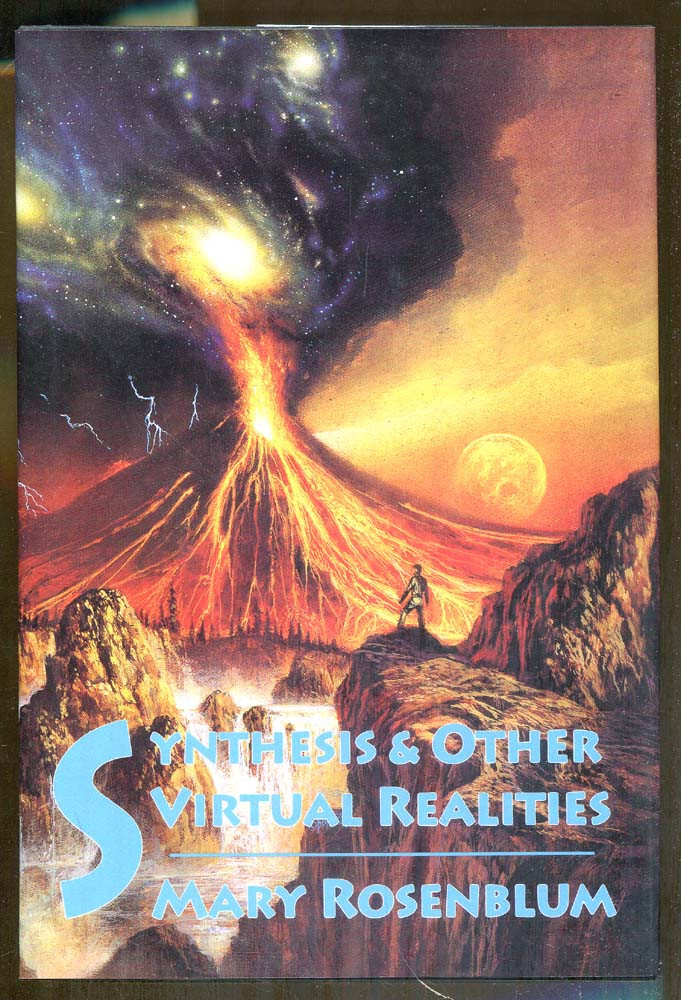
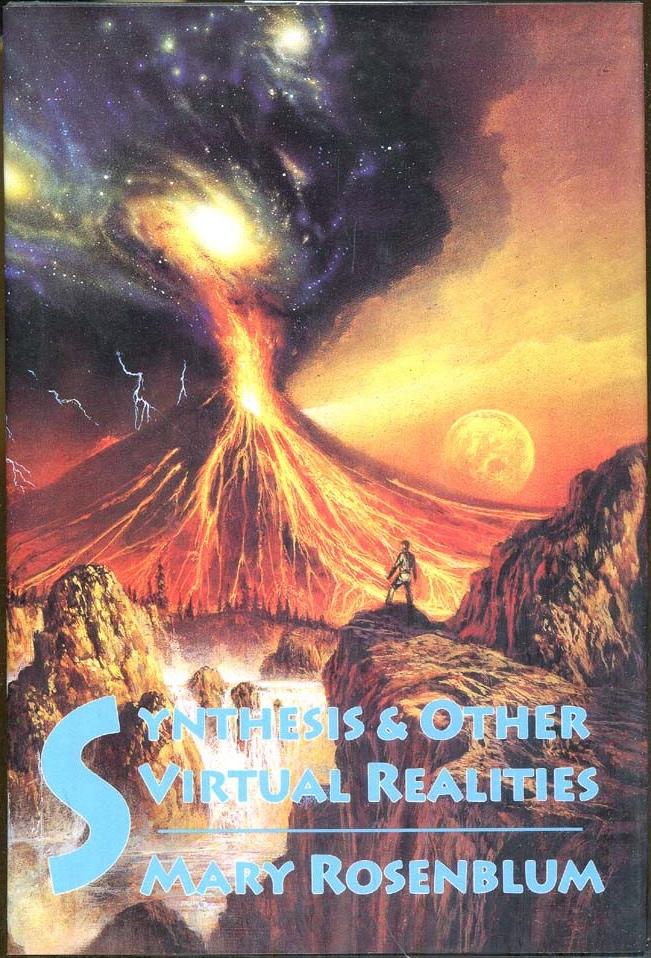
crops

diff --git a/data/edits.js b/data/edits.js
@@ -138,18 +138,23 @@ window.BOOK_EDITS = {
     "coverImageFile": "covers/the-cleansing-novel-243.jpg"
   },
   "245": {
-    "goodreadsUrl": "https://www.goodreads.com/book/show/370614.Book_of_the_Dead",
-    "coverImageFile": "covers/book-of-the-dead-memoir-245.jpg"
+    "coverImageFile": "covers/book-of-the-dead-memoir-245.jpg",
+    "listCoverFocusX": 0.6659663865546218,
+    "listCoverFocusY": 0.4360933324905125,
+    "goodreadsUrl": "https://www.goodreads.com/book/show/370614.Book_of_the_Dead"
   },
   "246": {
     "description": "Arkham's Masters of Horror is an anthology of fantasy and horror stories edited by Peter Ruber. It was released by Arkham House in an edition of approximately 4,000 copies in 2000. The book includes an introductory essay by Ruber before each story and about its author.\n\nRuber drew criticism from the horror/fantasy community for the hostility with which he introduced some authors within the volume - for instance, his accusation that H.P. Lovecraft \"had a schizoid personality\" and could be labelled \"a genuine crackpot.\"",
-    "coverImageFile": "covers/arkhams-masters-of-horror-246.jpg"
+    "coverImageFile": "covers/arkhams-masters-of-horror-246.jpg",
+    "listCoverFocusX": 0.4369747899159664,
+    "listCoverFocusY": 0.7528329155961413
   },
   "247": {
     "coverImageFile": "covers/in-the-stone-house-247.jpg"
   },
   "248": {
-    "coverImageFile": "covers/sixty-years-of-arkham-house-248.jpg"
+    "listCoverFocusX": 0.27941176470588236,
+    "listCoverFocusY": 0.08713518634633105
   },
   "249": {
     "coverImageFile": "covers/dragonfly-durbin-novel-249.jpg"
@@ -164,11 +169,18 @@ window.BOOK_EDITS = {
     "coverImageFile": "covers/voyages-by-starlight-253.jpg"
   },
   "254": {
-    "coverImageFile": "covers/synthesis-other-virtual-realities-254.jpg"
+    "coverImageFile": "covers/synthesis-other-virtual-realities-254.jpg",
+    "listCoverFocusX": 0.6218487394957983,
+    "listCoverFocusY": 0.5741648590513125
+  },
+  "255": {
+    "listCoverFocusX": 0.37815126050420167,
+    "listCoverFocusY": 0.38558352822959757
   },
   "256": {
-    "publicationDate": "1995",
-    "coverImageFile": "covers/miscellaneous-writings-256.jpg"
+    "listCoverFocusX": 0.5861344537815126,
+    "listCoverFocusY": 0.7993622826273099,
+    "publicationDate": "1995"
   },
   "257": {
     "coverImageFile": "covers/the-breath-of-suspension-257.jpg"
@@ -177,7 +189,9 @@ window.BOOK_EDITS = {
     "coverImageFile": "covers/the-aliens-of-earth-258.jpg"
   },
   "259": {
-    "coverImageFile": "covers/alone-with-the-horrors-the-great-short-fiction-of-ramsey-campbell-1961-1991-259.jpg"
+    "coverImageFile": "covers/alone-with-the-horrors-the-great-short-fiction-of-ramsey-campbell-1961-1991-259.jpg",
+    "listCoverFocusX": 0.5147058823529411,
+    "listCoverFocusY": 0.22736756673254094
   },
   "260": {
     "coverImageFile": "covers/meeting-in-infinity-260.jpg"
@@ -193,11 +207,13 @@ window.BOOK_EDITS = {
     "coverImageFile": "covers/the-ends-of-the-earth-science-fiction-stories-263.png"
   },
   "265": {
+    "coverImageFile": "covers/cthulhu-mythos-anthology-265.jpg",
+    "description": "Arkham House released a revised edition of Tales of the Cthulhu Mythos in November 1990, edited by Jim Turner with a substantially different selection of stories, reflecting the editor's disdain for \"Mythos pastiches in which eccentric New England recluses utter the right incantations in the wrong books and are promptly eaten by a giant frog named Cthulhu.\" It was released in an edition of 7,015 copies.\n\nTurner eliminates some authors from the earlier edition (totalling four stories, those by Wade, Shea and two by Lumley) --while still suggesting that \"a few of the earliest pieces in this volume.now seem like pop-cultural kitsch.\"\n\nThe added seven stories, he writes, are from \"the relative handful of successful works that have been influenced by the Cthulhu Mythos.exemplifying the darkly enduring power of H. P. Lovecraft over a disparate group of writers who have made their own inimitable contributions to the Mythos.\"",
+    "listCoverFocusX": 0.5777310924369747,
+    "listCoverFocusY": 0.14194194495365525,
     "publicationDate": "1990",
     "decade": "1990s",
-    "wikipediaUrl": "https://en.wikipedia.org/wiki/Cthulhu_Mythos_anthology#Tales_of_the_Cthulhu_Mythos:_Golden_Anniversary_Anthology",
-    "coverImageFile": "covers/cthulhu-mythos-anthology-265.jpg",
-    "description": "Arkham House released a revised edition of Tales of the Cthulhu Mythos in November 1990, edited by Jim Turner with a substantially different selection of stories, reflecting the editor's disdain for \"Mythos pastiches in which eccentric New England recluses utter the right incantations in the wrong books and are promptly eaten by a giant frog named Cthulhu.\" It was released in an edition of 7,015 copies.\n\nTurner eliminates some authors from the earlier edition (totalling four stories, those by Wade, Shea and two by Lumley) --while still suggesting that \"a few of the earliest pieces in this volume.now seem like pop-cultural kitsch.\"\n\nThe added seven stories, he writes, are from \"the relative handful of successful works that have been influenced by the Cthulhu Mythos.exemplifying the darkly enduring power of H. P. Lovecraft over a disparate group of writers who have made their own inimitable contributions to the Mythos.\""
+    "wikipediaUrl": "https://en.wikipedia.org/wiki/Cthulhu_Mythos_anthology#Tales_of_the_Cthulhu_Mythos:_Golden_Anniversary_Anthology"
   },
   "266": {
     "coverImageFile": "covers/crystal-express-266.jpg"
@@ -213,10 +229,14 @@ window.BOOK_EDITS = {
     "listCoverFocusY": 0.2624382583048793
   },
   "270": {
-    "coverImageFile": "covers/polyphemus-book-270.jpg"
+    "coverImageFile": "covers/polyphemus-book-270.jpg",
+    "listCoverFocusX": 0.5042016806722689,
+    "listCoverFocusY": 0.1399285888671875
   },
   "271": {
-    "coverImageFile": "covers/the-jaguar-hunter-271.jpg"
+    "coverImageFile": "covers/the-jaguar-hunter-271.jpg",
+    "listCoverFocusX": 0.47478991596638653,
+    "listCoverFocusY": 0.4955386655661908
   },
   "272": {
     "coverImageFile": "covers/tales-of-the-quintana-roo-272.jpg",
@@ -877,6 +897,10 @@ window.BOOK_EDITS = {
   "428": {
     "hidden": true,
     "deleted": true
+  },
+  "430": {
+    "listCoverFocusX": 0.4852941176470588,
+    "listCoverFocusY": 0.7732387874218338
   },
   "432": {
     "coverImageFile": "covers/the-dunwich-horror-and-others-432.webp"
